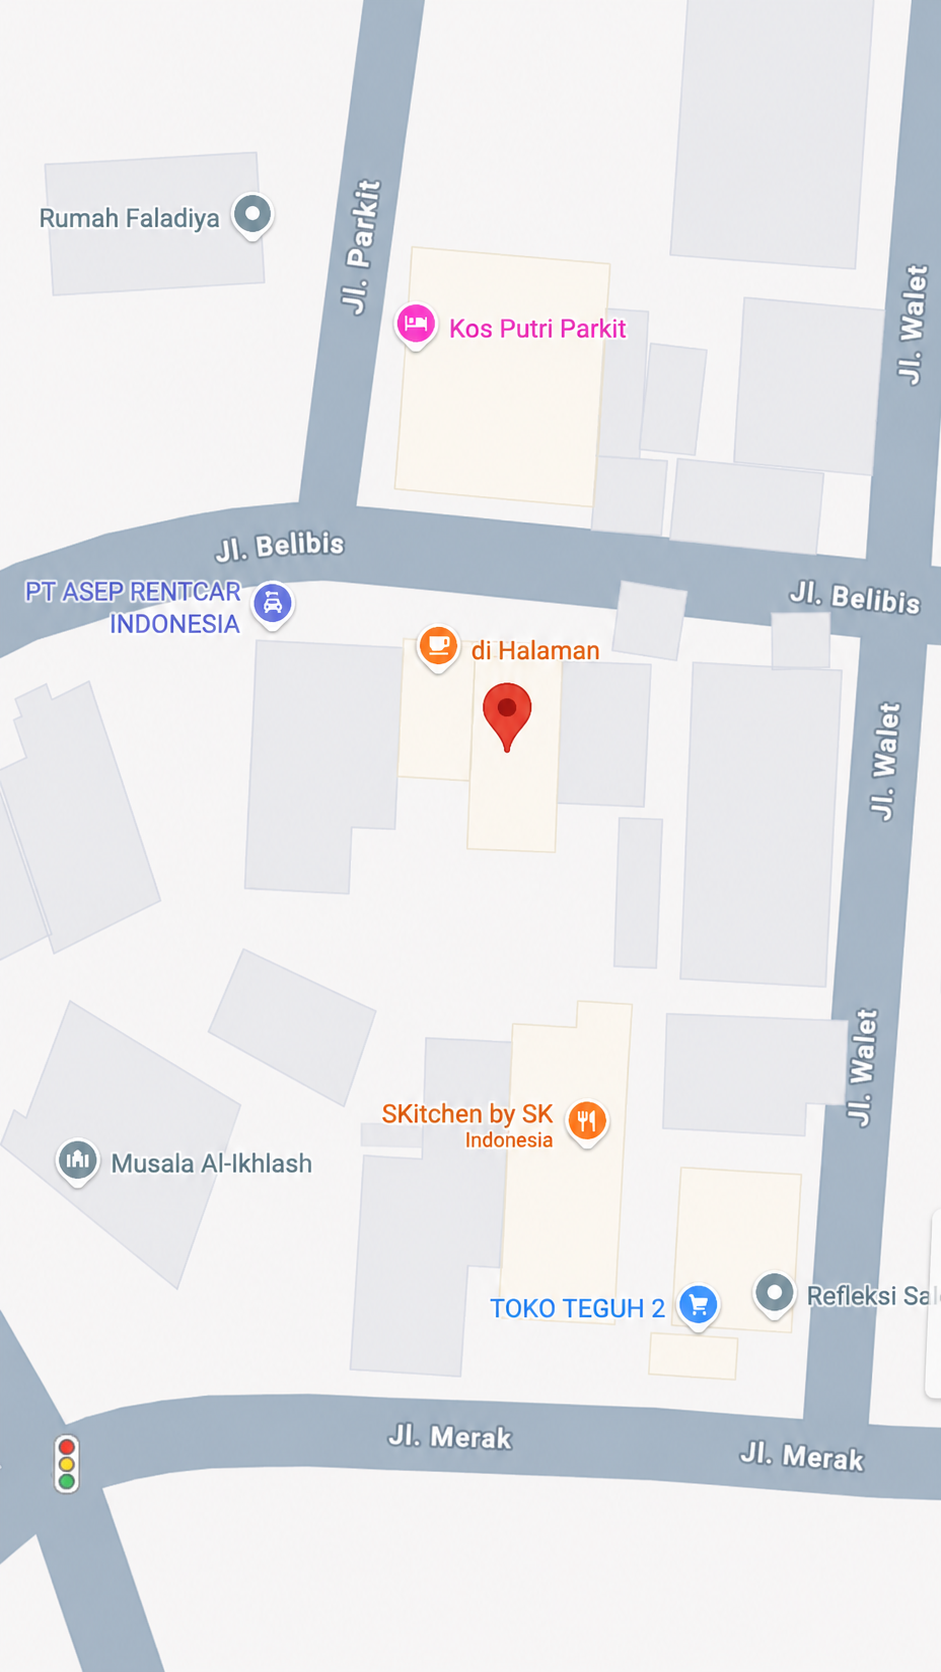
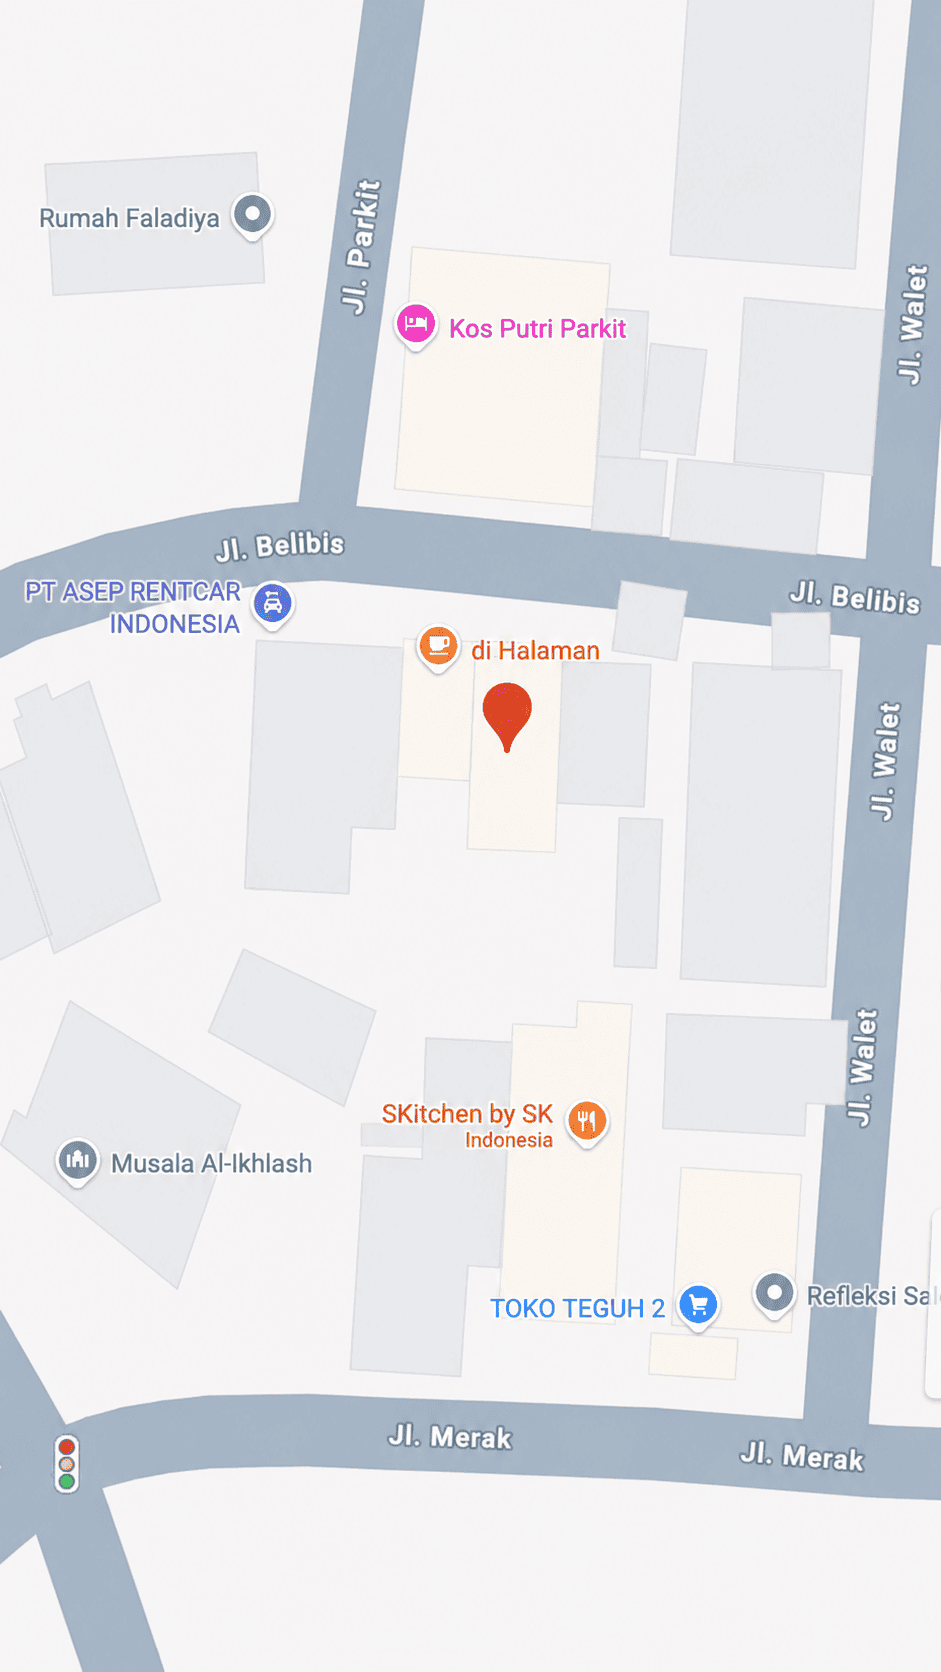
change title and image compress

diff --git a/index.html b/index.html
@@ -6,8 +6,6 @@
   <meta name="viewport" content="width=device-width, initial-scale=1.0" />
   <title>di Halaman | Ngopi Senyaman di Halaman Rumah</title>
   <link rel="icon" href="assets/favicon.ico" type="image/x-icon">
-  <meta name="description"
-    content="Ngopi nyaman di halaman dengan suasana hangat, menu favorit, galeri, testimoni, dan informasi reservasi." />
 
   <!-- Primary SEO -->
   <title>Tempat Ngopi & Cafe di Depok | di Halaman</title>
@@ -106,7 +104,7 @@
 
       <div class="hero-content">
         <p class="eyebrow">Tempat ngopi penuh kehangatan</p>
-        <h2>Ngopi Senyaman di Halaman Rumah.</h2>
+        <h1 style="font-size: 40px; line-height: 1;">Ngopi Senyaman di Halaman Rumah.</h1>
         <p class="hero-copy">
           Tempat menikmati kopi berkualitas, makanan rumahan, dan suasana hangat
           bersama keluarga maupun teman.
